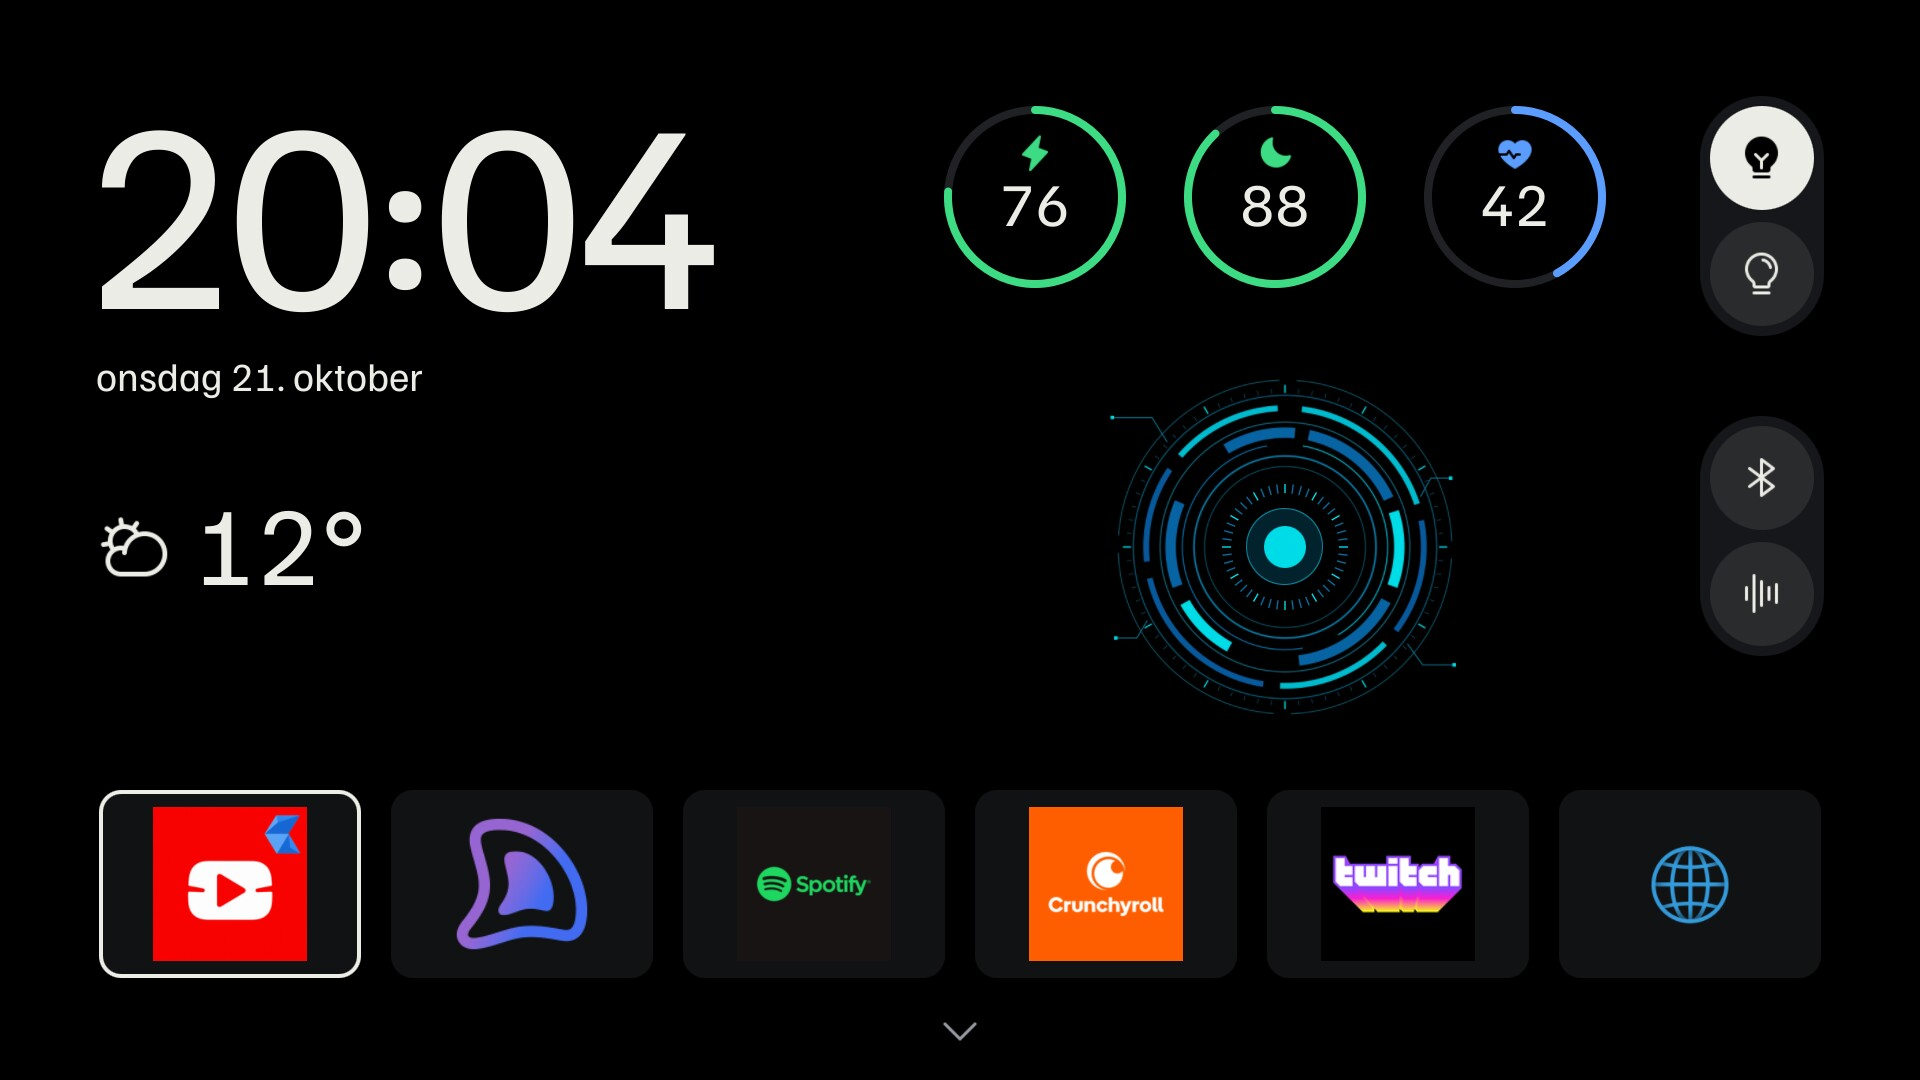
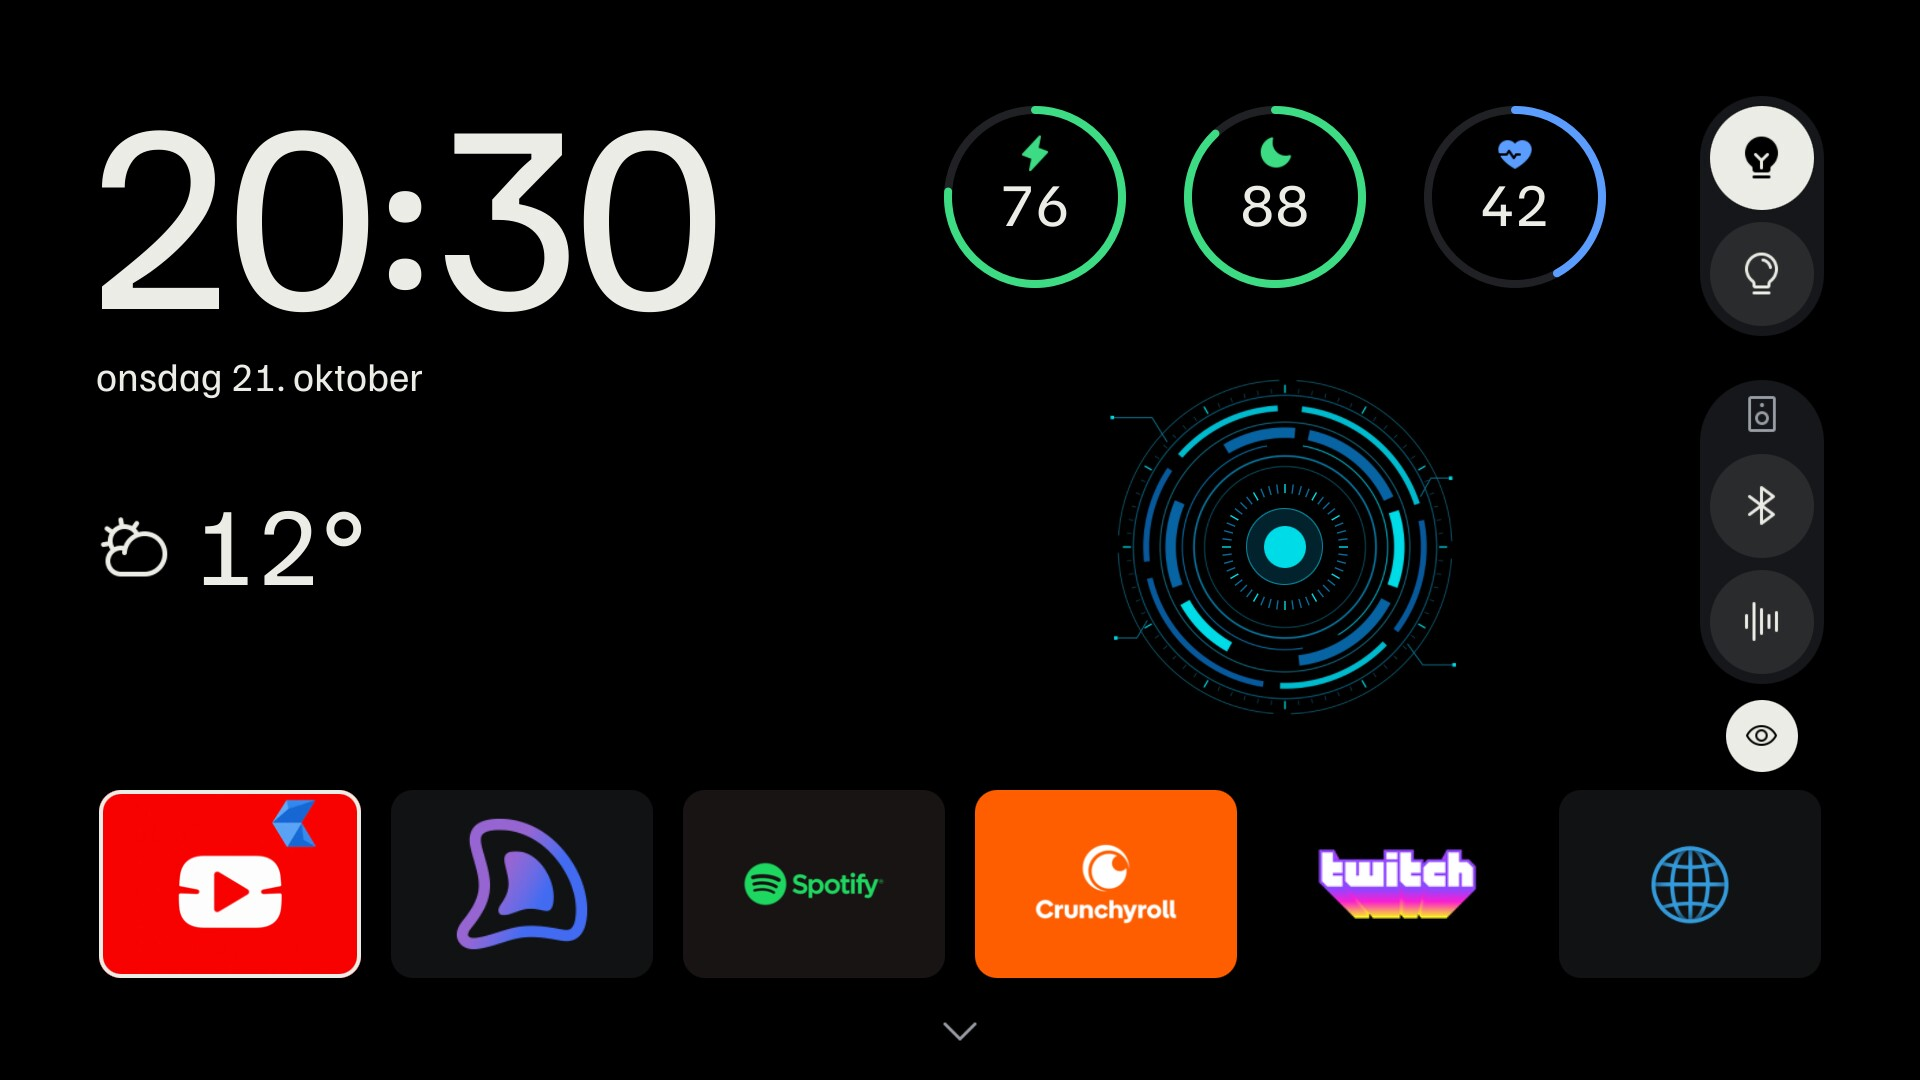
feat(tv): add blue-light control and fill app cards

diff --git a/tv/launcher/OpenHome.qml b/tv/launcher/OpenHome.qml
@@ -15,7 +15,6 @@ FocusScope {
     FontLoader { source: "file:///var/lib/pearwebos/fonts/FamiljenGrotesk-SemiBold.ttf" }
     readonly property int columns: 6
     readonly property int tileW: r(262)
-    readonly property int tileH: r(158)
     readonly property int gapX: r(30)
     readonly property var source: interfaces.launchPoints ? interfaces.launchPoints.launchPointsModel : null
     readonly property var hiddenApps: [
@@ -23,7 +22,7 @@ FocusScope {
         "lgchannels.uk", "com.webos.app.lgchannels", "com.webos.app.homeconnect",
         "com.webos.app.sportsteamsettings", "com.lgshop.app35", "com.lgtravel.app",
         "epoxyaisports", "com.lgtvod.app", "webos.day", "com.twin.app.audiochannel",
-        "com.twin.app.gamingportal", "com.pirate.refresh", "org.webosbrew.inputhook",
+        "com.twin.app.gamingportal", "com.pirate.refresh",
         "org.aabytt.webos.custom-screensaver-aerial", "com.amazoff.patcher"
     ]
     property var apps: []
@@ -75,6 +74,7 @@ FocusScope {
         if (agentOpen) { agent.speaking = !agent.speaking; return; }
         if (region === "controls") {
             if (controlIndex === 4) agentOpen = true;
+            else if (controlIndex === 5) blueLight.toggle();
             else send(commands[controlIndex]);
         } else launch((drawer ? apps : dockApps)[appIndex]);
     }
@@ -87,9 +87,10 @@ FocusScope {
                 if (key === Qt.Key_Down || key === Qt.Key_Left) { region = "apps"; appIndex = Math.min(3, dockApps.length - 1); }
             } else {
                 if (key === Qt.Key_Left) controlIndex = 4;
-                if (key === Qt.Key_Up) controlIndex = Math.max(0, controlIndex - 1);
+                if (key === Qt.Key_Up) controlIndex = controlIndex === 5 ? 3 : Math.max(0, controlIndex - 1);
                 if (key === Qt.Key_Down) {
                     if (controlIndex < 3) controlIndex++;
+                    else if (controlIndex === 3) controlIndex = 5;
                     else { region = "apps"; appIndex = dockApps.length - 1; }
                 }
             }
@@ -101,7 +102,7 @@ FocusScope {
         } else {
             if (key === Qt.Key_Left) appIndex = Math.max(0, appIndex - 1);
             if (key === Qt.Key_Right) appIndex = Math.min(dockApps.length - 1, appIndex + 1);
-            if (key === Qt.Key_Up) { region = "controls"; controlIndex = appIndex === 5 ? 3 : 4; }
+            if (key === Qt.Key_Up) { region = "controls"; controlIndex = appIndex === 5 ? 5 : 4; }
             if (key === Qt.Key_Down) openDrawer();
         }
     }
@@ -218,6 +219,7 @@ FocusScope {
             event.accepted = true;
         }
     }
+    OH.BlueLight { id: blueLight; active: home.visible && uiController.homeShown }
     Rectangle { anchors.fill: parent; color: "#000000" }
     // Absorb pointer/wheel input so LG's hidden shelves cannot steal focus.
     MouseArea {
@@ -249,11 +251,11 @@ FocusScope {
             }
         }
         Rectangle { x: r(1700); y: r(96); width: r(124); height: r(240); radius: width / 2; color: "#16171a" }
-        Rectangle { x: r(1700); y: r(416); width: r(124); height: r(240); radius: width / 2; color: "#16171a" }
+        Rectangle { x: r(1700); y: r(380); width: r(124); height: r(304); radius: width / 2; color: "#16171a" }
         Repeater {
             model: 4
             OH.Control {
-                x: r(1710); y: r([106, 222, 426, 542][index]); width: r(104); height: width
+                x: r(1710); y: r([106, 222, 454, 570][index]); width: r(104); height: width
                 label: home.labels[index]; glyph: home.glyphs[index]; primary: index === 0
                 selected: home.region === "controls" && home.controlIndex === index
                 pending: home.pending === home.commands[index]
@@ -262,6 +264,17 @@ FocusScope {
                 onHovered: home.selectControl(index)
                 onActivated: { home.selectControl(index); home.send(home.commands[index]); }
             }
+        }
+        OH.Glyph { x: r(1740); y: r(392); width: r(44); height: width; kind: "speaker"; ink: "#9a9ea6" }
+        OH.Control {
+            x: r(1726); y: r(700); width: r(72); height: width
+            label: "Reducer blåt lys"; glyph: "eye"; primary: blueLight.value === true
+            enabled: blueLight.value !== null
+            opacity: enabled ? 1 : 0.4
+            selected: home.region === "controls" && home.controlIndex === 5
+            pending: blueLight.pending; failed: blueLight.failed
+            onHovered: home.selectControl(5)
+            onActivated: { home.selectControl(5); blueLight.toggle(); }
         }
         Item {
             id: agentKey; x: r(1110); y: r(372); width: r(350); height: width
@@ -286,12 +299,6 @@ FocusScope {
     }
     Item {
         anchors.fill: parent; visible: home.drawer
-        OH.Glyph { x: r(1740); y: r(66); width: r(52); height: width; kind: "close"; ink: "#ecece6" }
-        MouseArea {
-            x: r(1720); y: r(46); width: r(92); height: width
-            Accessible.role: Accessible.Button; Accessible.name: "Luk appoversigt"
-            onClicked: home.closeDrawer()
-        }
         GridView {
             id: grid; x: r(89); y: r(175); width: cellWidth * 6 + leftMargin; height: r(825)
             cellWidth: r(292); cellHeight: r(240); leftMargin: r(10); topMargin: r(12); bottomMargin: r(30)
@@ -312,14 +319,13 @@ FocusScope {
             Accessible.role: Accessible.Button
             Accessible.name: app ? app.title : "App"
             Accessible.onPressAction: home.launch(tile.app)
+            OH.AppArtwork {
+                anchors.fill: parent; cornerRadius: r(22); iconSize: r(154)
+                source: tile.app ? tile.app.extraLargeIcon || tile.app.largeIcon || tile.app.icon || "" : ""
+            }
             Rectangle {
-                anchors.fill: parent; radius: r(22); color: "#111213"
-                border.color: tile.selected ? "#ecece6" : "transparent"; border.width: tile.selected ? r(4) : 0
-                Image {
-                    anchors.centerIn: parent; width: r(154); height: width; fillMode: Image.PreserveAspectFit
-                    smooth: true; mipmap: true; asynchronous: true
-                    source: tile.app ? tile.app.extraLargeIcon || tile.app.largeIcon || tile.app.icon || "" : ""
-                }
+                anchors.fill: parent; radius: r(22); color: "transparent"
+                border.color: "#ecece6"; border.width: tile.selected ? r(4) : 0
             }
             MouseArea {
                 anchors.fill: parent; hoverEnabled: true

diff --git a/tv/launcher/ui/BlueLight.qml b/tv/launcher/ui/BlueLight.qml
@@ -1,0 +1,50 @@
+import QtQuick 2.12
+import WebOSServices 1.0
+
+Item {
+    id: setting
+    property bool active: false
+    property var value: null
+    property bool pending: false
+    property bool failed: false
+    property var request: null
+    property string operation: ""
+    onActiveChanged: if (active) refresh()
+    function read() {
+        request = service.call("luna://com.webos.settingsservice", "/getSystemSettings",
+            JSON.stringify({category: "picture", keys: ["eyeComfortMode"]}));
+        timeout.restart();
+    }
+    function refresh() { if (!pending) { operation = "read"; read(); } }
+    function toggle() {
+        if (pending || value === null) return;
+        pending = true; failed = false; operation = "toggle"; read();
+    }
+    function fail() { request = null; operation = ""; pending = false; value = null; failed = true; timeout.stop(); }
+    Service {
+        id: service
+        appId: "com.webos.app.home"
+        onResponse: {
+            if (token !== setting.request) return;
+            timeout.stop();
+            var data;
+            try { data = JSON.parse(payload); } catch (e) { setting.fail(); return; }
+            if (!data.returnValue) { setting.fail(); return; }
+            if (setting.operation === "write") {
+                setting.operation = "verify"; setting.read(); return;
+            }
+            var current = data.settings && data.settings.eyeComfortMode;
+            if (current !== "on" && current !== "off") { setting.fail(); return; }
+            setting.value = current === "on";
+            if (setting.operation === "toggle") {
+                setting.operation = "write";
+                setting.request = service.call("luna://com.webos.settingsservice", "/setSystemSettings",
+                    JSON.stringify({category: "picture", settings: {eyeComfortMode: current === "on" ? "off" : "on"}}));
+                timeout.restart(); return;
+            }
+            setting.request = null; setting.operation = ""; setting.pending = false; setting.failed = false;
+        }
+    }
+    Timer { id: timeout; interval: 5000; onTriggered: setting.fail() }
+    Timer { interval: 60000; running: setting.active; repeat: true; onTriggered: setting.refresh() }
+}

diff --git a/tv/launcher/ui/AppArtwork.qml b/tv/launcher/ui/AppArtwork.qml
@@ -1,0 +1,43 @@
+import QtQuick 2.12
+import QtGraphicalEffects 1.12
+
+Item {
+    id: artwork
+    property url source
+    property real cornerRadius: 22
+    property real iconSize: 154
+    property bool opaque: false
+    property color ground: "#111213"
+    onSourceChanged: { opaque = false; ground = "#111213"; if (source) probe.loadImage(source); }
+    // Probe only the image edges; transparent logos retain their original sizing.
+    Canvas {
+        id: probe; width: 16; height: 16; opacity: 0
+        onAvailableChanged: if (available && artwork.source) loadImage(artwork.source)
+        onImageLoaded: requestPaint()
+        onPaint: {
+            if (!isImageLoaded(artwork.source)) return;
+            var c = getContext("2d"); c.clearRect(0, 0, 16, 16);
+            c.drawImage(artwork.source, 0, 0, 16, 16);
+            var top = c.getImageData(8, 0, 1, 1).data;
+            var left = c.getImageData(0, 8, 1, 1).data;
+            var right = c.getImageData(15, 8, 1, 1).data;
+            var bottom = c.getImageData(8, 15, 1, 1).data;
+            artwork.opaque = top[3] > 250 && left[3] > 250 && right[3] > 250 && bottom[3] > 250;
+            if (artwork.opaque) artwork.ground = Qt.rgba(top[0] / 255, top[1] / 255, top[2] / 255, 1);
+        }
+    }
+    Item {
+        id: content; anchors.fill: parent
+        layer.enabled: true
+        layer.effect: OpacityMask {
+            maskSource: Rectangle { width: artwork.width; height: artwork.height; radius: artwork.cornerRadius }
+        }
+        Rectangle { anchors.fill: parent; color: artwork.ground }
+        Image {
+            anchors.centerIn: parent
+            width: artwork.opaque ? parent.height : artwork.iconSize; height: width
+            fillMode: Image.PreserveAspectFit; smooth: true; mipmap: true; asynchronous: true
+            source: artwork.source
+        }
+    }
+}

diff --git a/tv/DESIGN.md b/tv/DESIGN.md
@@ -10,10 +10,13 @@ interface. This replaces the first worded design saved in commit `fd3497b`.
 - Today's weather is just its existing dashboard icon and current temperature.
 - Three recovery rings use Axum's actual Charge/Rest/Effort scores, with the
   dashboard's filled Lightning, Moon and Heartbeat symbols and colours.
-- Two vertical control capsules: lights on/off, then Bluetooth/optical.
+- Two vertical control capsules: lights on/off, then a SpeakerHifi header over Bluetooth/optical.
+- The eye button below toggles the TV’s actual blue-light filter: white is on, dark is off; unknown state is dimmed.
 - Six large app icons below, without captions. The LG Apps application
   (`com.webos.app.discovery`) is filtered from both the dock and the drawer.
-- A down chevron opens the complete app grid; an X closes it.
+- A down chevron opens the complete app grid; Back or Up from the first row closes it. No drawer X.
+- InputHook stays visible. Removed apps disappear through LG’s live app model.
+- Opaque app artwork grows to card height, with its edge colour extended across the rounded card. Transparent logos retain their original sizing. This avoids cropping or stretching logos.
 - No headings, brand wordmark, prose, app names, tips, weather breakdown or
   attribution text appears on the TV. Date and numerical readings remain.
 - Commands acknowledge with a short orange ring; failures use a red warning
@@ -26,6 +29,11 @@ using the exact component and weight used by the dashboard. `tv/export-icons.mjs
 renders them through React's static renderer, then `rsvg-convert` compiles PNGs
 for LG's Qt build, which has no SVG image loader. The package's MIT license is
 included in the TV bundle. This adds no new JavaScript dependency.
+
+The eye button uses Home’s native Luna settings service for `picture.eyeComfortMode`.
+It reads before toggling, writes only `on`/`off`, and reads back the result. It does
+not predict state. A timeout/error clears the value; periodic/return-to-Home reads
+recover it. Unlike room controls, this is a local TV setting, not an Axum command.
 
 ## Agent
 

diff --git a/tv/README.md b/tv/README.md
@@ -12,6 +12,7 @@ Working branch: `tv`. Device: LG 55NANO806PA, webOS 6.5.3 / firmware 03.53.45.
 - [OpenHome TV Home, synthetic public data](screenshots/openhome.jpg)
 - [Circular agent speaking concept](screenshots/ember-speaking.jpg)
 - [Earlier design, before removing labels](screenshots/before-wordless.jpg)
+- [Before filling app cards](screenshots/before-card-fill.jpg)
 
 ## Layout
 
@@ -61,9 +62,13 @@ The TV has no visible labels or instructions: Danish date, clock and numerical
 readings accompany the dashboard's exact icons. Left/Right chooses apps; OK opens
 one. Up reaches the agent or the right-hand controls. Up/Down moves through the
 vertical controls; Left reaches the agent. Down from apps opens the full drawer.
-Back/X closes the drawer or agent; hold OK on an app opens LG's original reorder view.
+Back closes the drawer; Back/X closes the agent; hold OK on an app opens LG's original reorder view.
 Magic Remote hover/click also works. No selection indicates observed device state.
 The LG Apps tile is hidden from both dock and drawer; its firmware is preserved.
+LG Input Hook is visible. The speaker capsule has the dashboard’s SpeakerHifi header;
+there are no volume buttons. The eye button toggles the TV’s Reduce Blue Light
+setting; white means enabled, dark means disabled, and dim means unknown.
+Opaque app backgrounds fill their rounded cards; transparent logos keep their sizing.
 
 ## Future voice input
 

diff --git a/tv/FINDINGS.md b/tv/FINDINGS.md
@@ -207,5 +207,21 @@ The drawer initially fitted five columns despite six-column navigation; its
 width now includes the left margin, and Down selects the icon directly below.
 Native client checks passed against the authenticated live API after deployment.
 
+### Speaker, artwork and blue-light follow-up
+
+Added the dashboard’s SpeakerHifi header, removed the drawer X, and made
+`org.webosbrew.inputhook` visible. LG's live model handles the owner's removed
+apps; nothing was reinstalled. Opaque image edges are sampled locally and their
+colour fills the rounded card; logos preserve their aspect ratio. Transparent
+logos retain their previous size.
+
+Read `picture.eyeComfortMode` through the TV's settings service. Its descriptor
+reports a global, nonvolatile `on`/`off` setting, initially `on`. The native Home
+service can read and write it. Tested the actual remote button from on to off,
+verified via an independent Luna read, then toggled back and verified on.
+The launcher reads before toggling and after writing, rather than predicting
+state. Failures clear the displayed state. No room-control API or firewall
+changes were needed.
+
 See [design and public data provenance](DESIGN.md), [API boundary](bridge/README.md)
 and [rollback](ROLLBACK.md). Original Pear remains under `/var/lib/pearwebos-baseline`.
